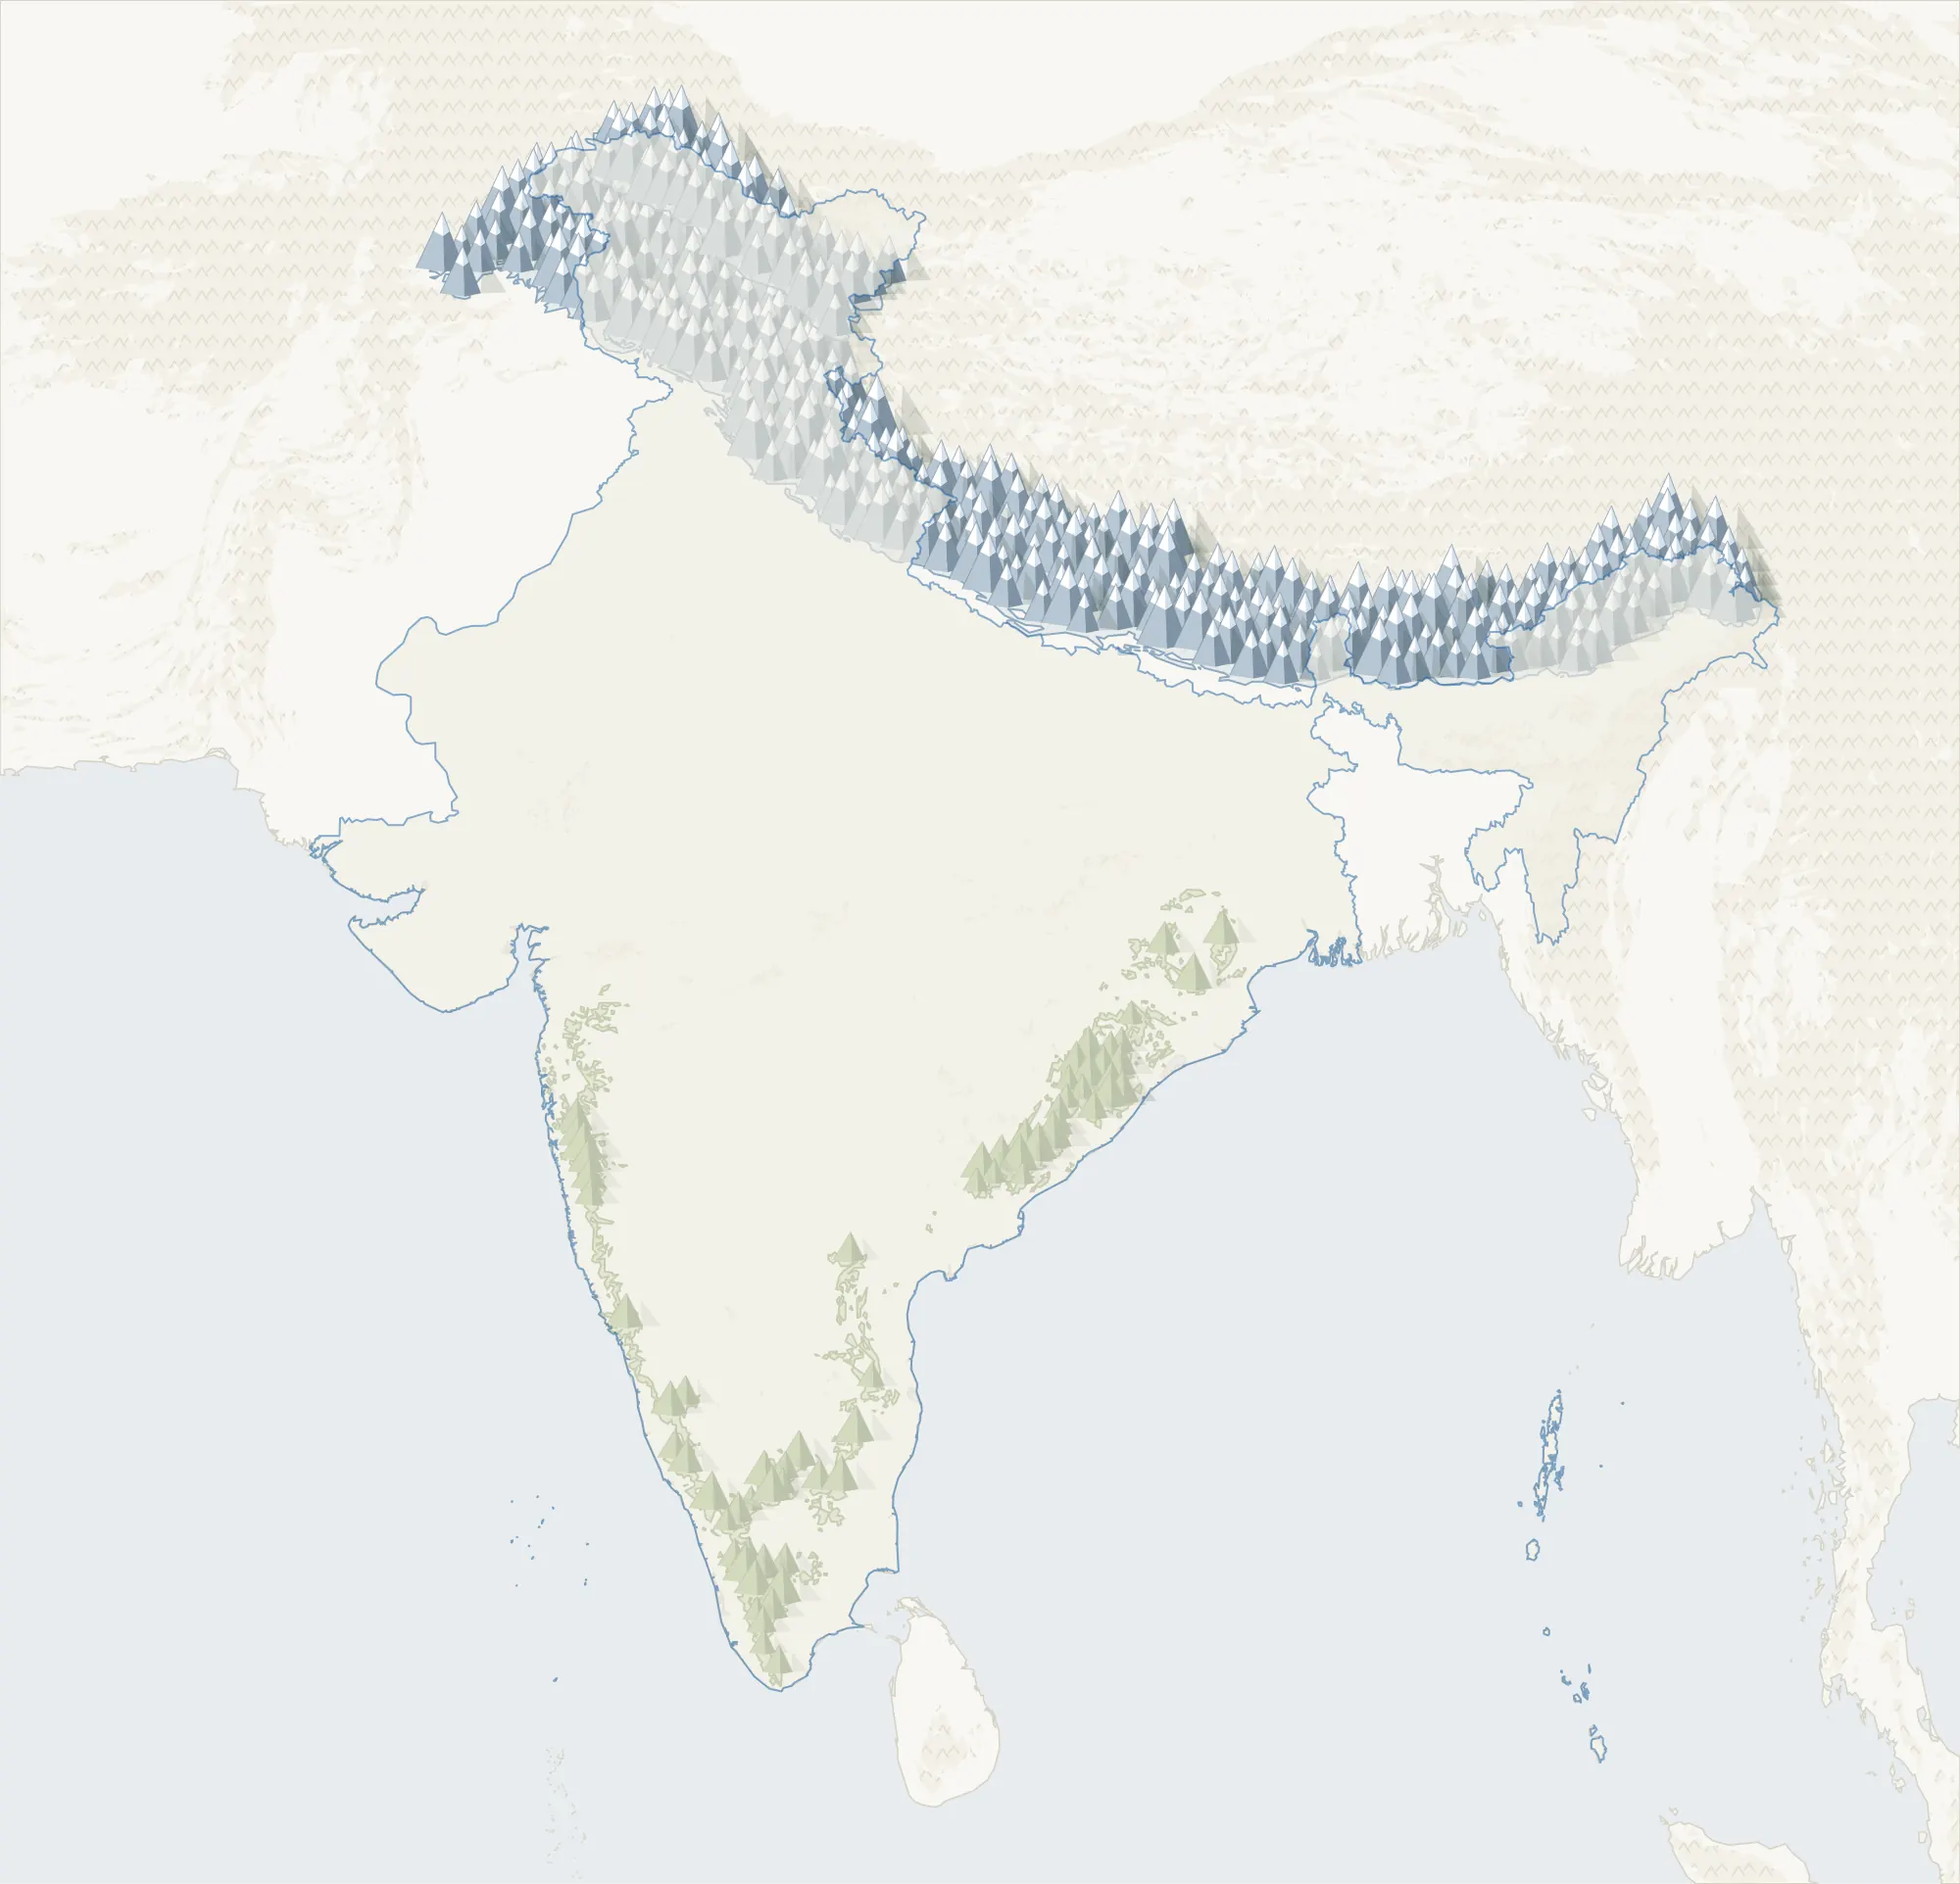
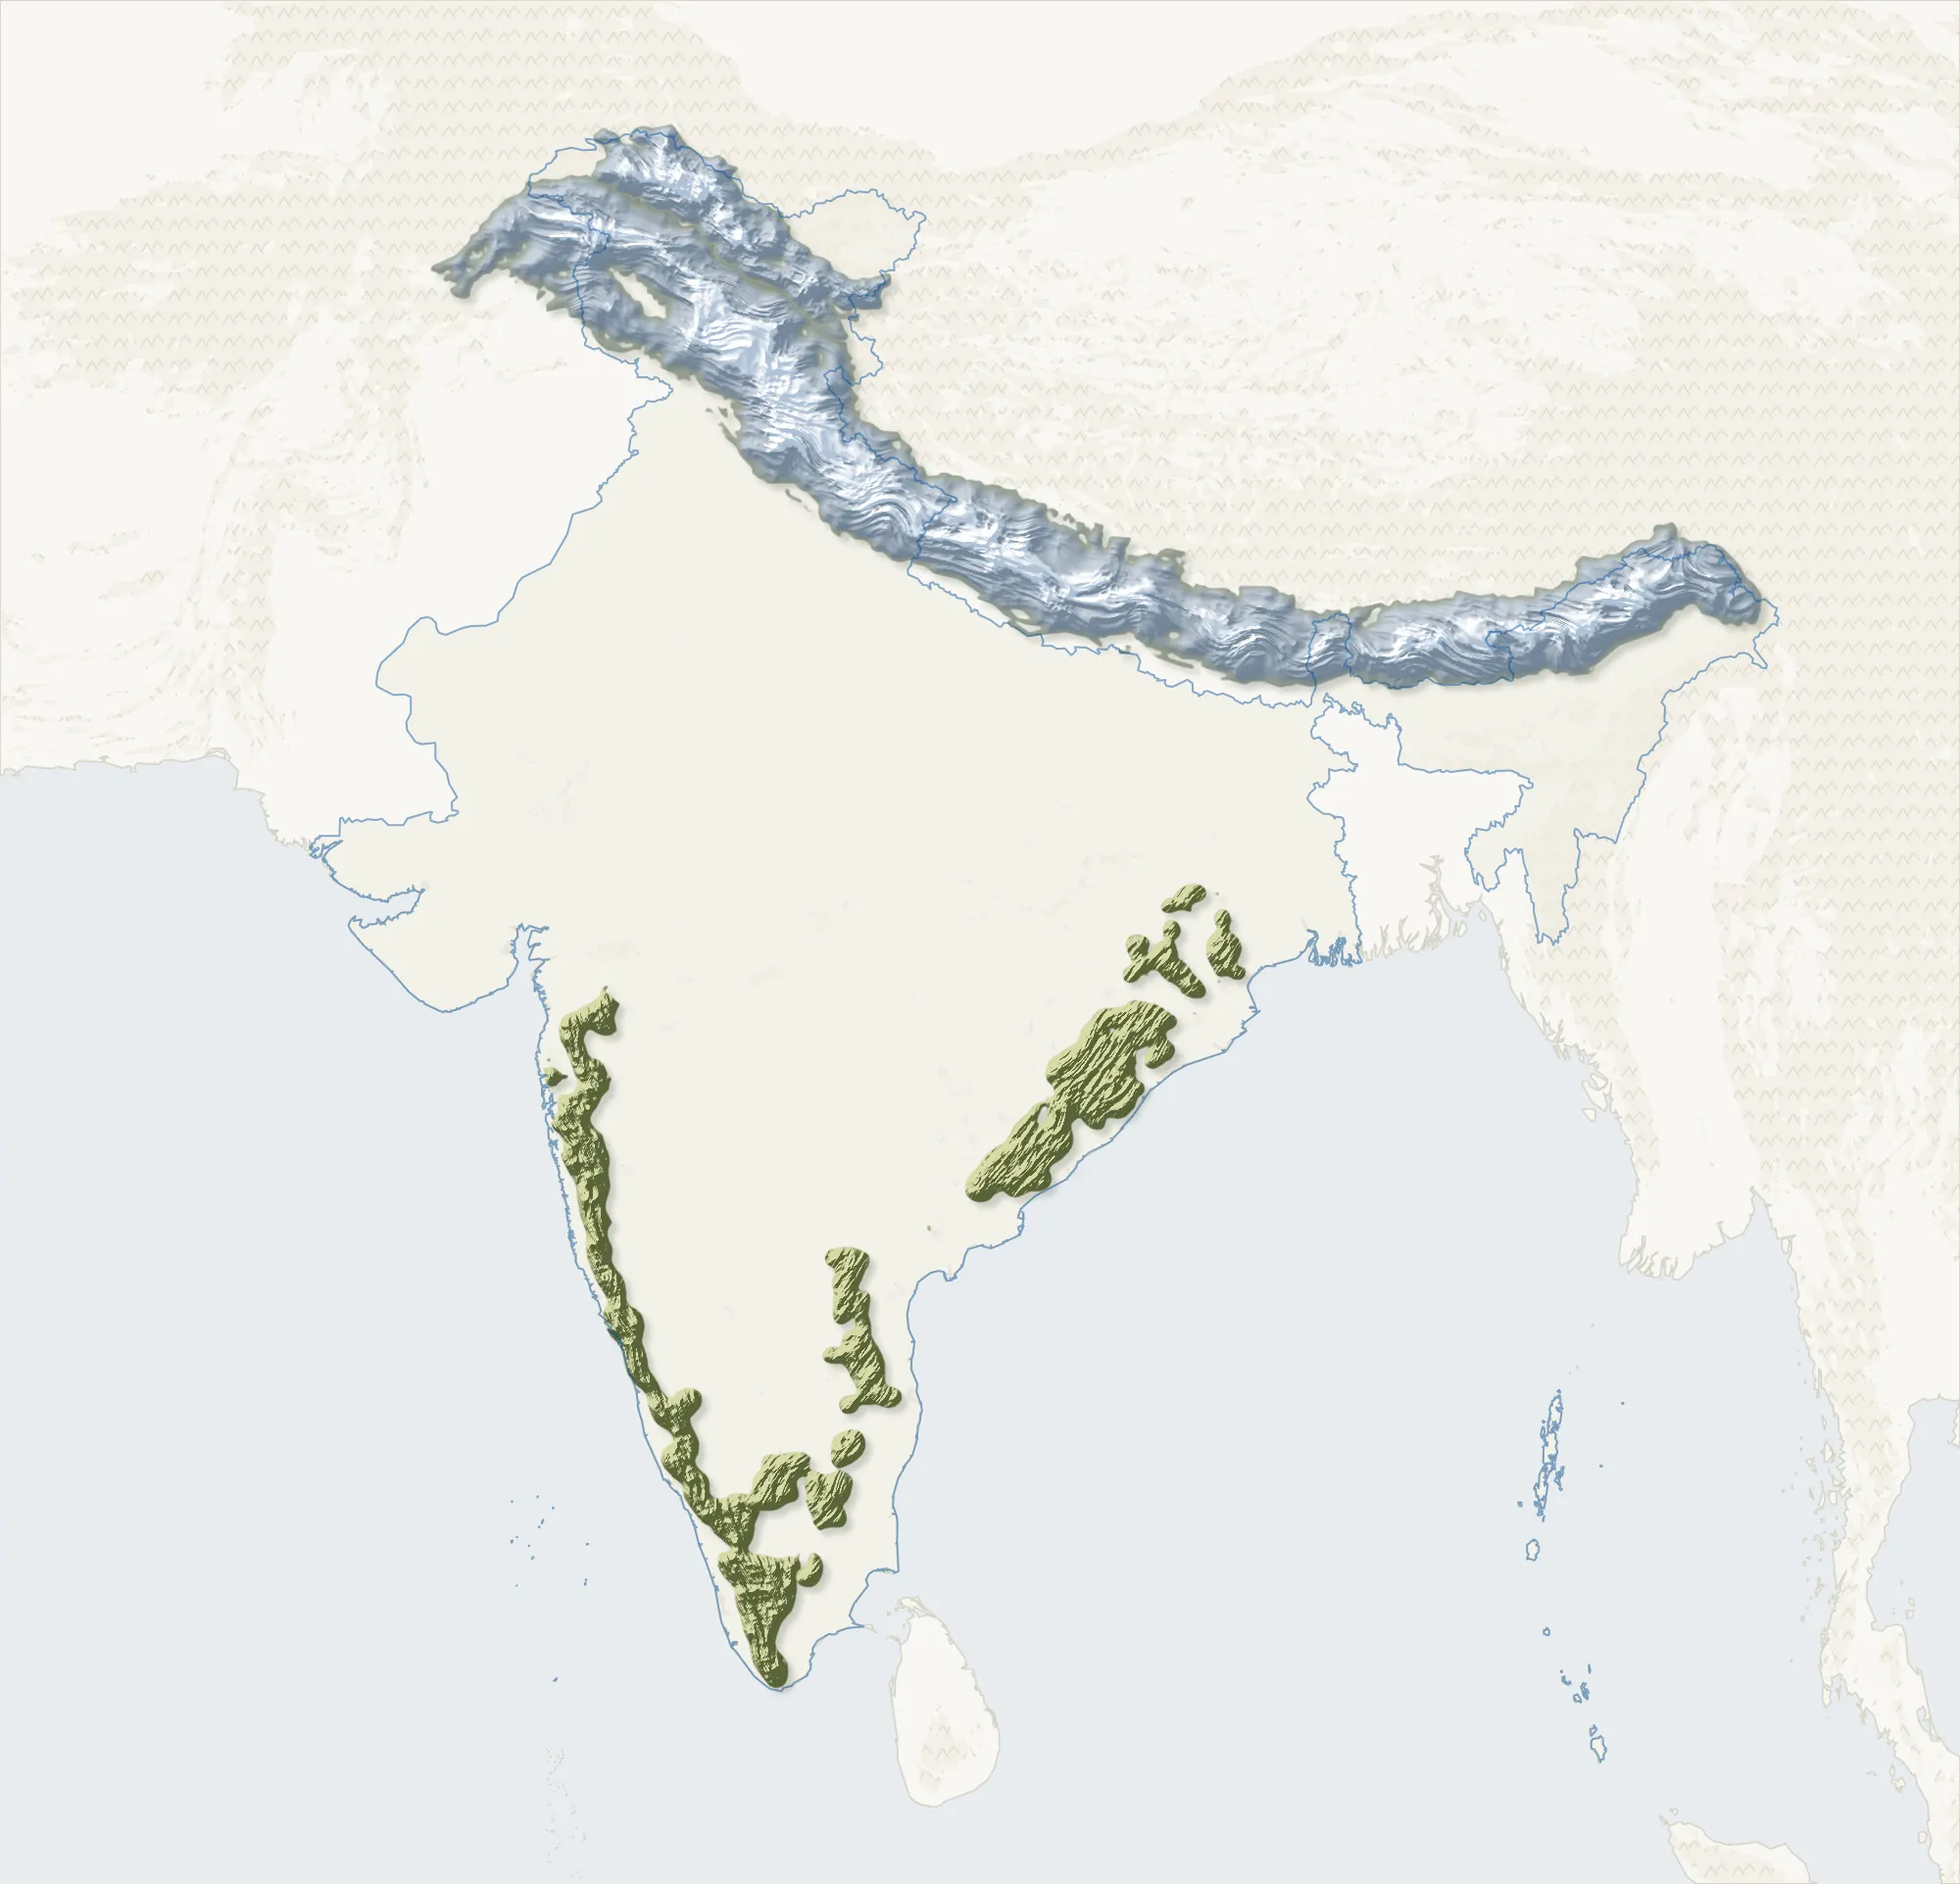
Map: Himalaya (and every range) as one shaded 3-D relief tile; thin ranges dilated so Ghats/Aravalli/Vindhya read as masses; plates re-rendered
Claude-Session: https://claude.ai/code/session_01Md7S2EhktSXHNbENHawYo3

Changed region(s): [[0.217, 0.0312, 0.899, 0.3744], [0.279, 0.5304, 0.465, 0.9048], [0.496, 0.468, 0.651, 0.6552]]

diff --git a/src/lib/map/drawMap.js b/src/lib/map/drawMap.js
@@ -55,7 +55,7 @@ function smoothEdge(c, s) {
   const x = c.getContext("2d"); x.save(); x.setTransform(1, 0, 0, 1, 0, 0); x.globalCompositeOperation = "copy"; x.drawImage(t, 0, 0); x.restore();
 }
 
-export function buildLawn({ growth, unit = 0.1, progress, indiaD, hotspots, unlocked, W, H, widthPx }) {
+export function buildLawn({ growth, unit = 0.1, progress, indiaD, hotspots, unlocked, relief, W, H, widthPx }) {
   const total = growth.length / 2, n = growthCount(progress, total);
   const c = typeof OffscreenCanvas !== "undefined" ? new OffscreenCanvas(widthPx, Math.round((widthPx * H) / W)) : Object.assign(document.createElement("canvas"), { width: widthPx, height: Math.round((widthPx * H) / W) });
   const x = c.getContext("2d"); x.setTransform(widthPx / W, 0, 0, widthPx / W, 0, 0);
@@ -74,7 +74,11 @@ export function buildLawn({ growth, unit = 0.1, progress, indiaD, hotspots, unlo
   for (const id of unlocked || []) {
     const h = hotspots?.[id]; if (!h?.parts) continue;
     if (h.type === "river") for (const [w, a] of [[17, 0.35], [11, 1]]) { x.lineWidth = w; x.globalAlpha = a; for (const f of h.parts) { ringPath(x, f, false); x.stroke(); } }
-    else if (h.type === "mountain") { x.lineWidth = 7; x.globalAlpha = 0.45; for (const f of h.parts) { ringPath(x, f, true); x.stroke(); } x.globalAlpha = 1; for (const f of h.parts) { ringPath(x, f, true); x.fill(); } }
+    else if (h.type === "mountain") {                       // clear the SAME (grown) footprint the relief tile was drawn on
+      const g = relief?.[id]?.grow || 0;
+      x.lineWidth = 7 + 2 * g; x.globalAlpha = 0.45; for (const f of h.parts) { ringPath(x, f, true); x.stroke(); }
+      x.globalAlpha = 1; x.lineWidth = 1 + 2 * g; for (const f of h.parts) { ringPath(x, f, true); if (g) x.stroke(); x.fill(); }
+    }
   }
   x.globalAlpha = 1; x.globalCompositeOperation = "source-over";
   return c;

diff --git a/src/components/map/DashboardMap.jsx b/src/components/map/DashboardMap.jsx
@@ -113,7 +113,7 @@ export default function DashboardMap({ stateOverride = null, cardOverride = unde
     sizeCanvas(canvas, width, (width * frame.H) / frame.W, dpr);
     const lawnKey = `${canvas.width}|${progress.toFixed(3)}|${unlocked.join(",")}`;
     if (lawnRef.current.key !== lawnKey) {
-      lawnRef.current = { key: lawnKey, canvas: buildLawn({ growth: assets.candidates.growth, unit: assets.candidates.unit, progress, indiaD: assets.india?.outline?.d, hotspots: manifest.hotspots, unlocked, W: frame.W, H: frame.H, widthPx: canvas.width }) };
+      lawnRef.current = { key: lawnKey, canvas: buildLawn({ growth: assets.candidates.growth, unit: assets.candidates.unit, progress, indiaD: assets.india?.outline?.d, hotspots: manifest.hotspots, unlocked, relief: manifest.relief, W: frame.W, H: frame.H, widthPx: canvas.width }) };
     }
     sceneRef.current = { lawnReady: true, frame, hotspots: manifest.hotspots, unlocked, sprites: assets.sprites, plants, mala: assets.candidates.mala, unit: assets.candidates.unit, progress };
     paint(performance.now() / 1000, reduced);

diff --git a/src/components/map/MapDetail.jsx b/src/components/map/MapDetail.jsx
@@ -54,7 +54,7 @@ export default function MapDetail({ state, assets, unlocked, plants, onClose }) 
 
   const progress = state.status === "ok" ? Number(state.progressPercent) : 0;
   // the lawn is built once (fixed 2000 px wide) and scaled by the view transform: it is soft-edged, so zoom stays clean
-  const lawn = useMemo(() => (geo ? buildLawn({ growth: assets.candidates.growth, unit: assets.candidates.unit, progress, indiaD: geo.outline.d, hotspots: manifest.hotspots, unlocked, W: frame.W, H: frame.H, widthPx: 2000 }) : null),
+  const lawn = useMemo(() => (geo ? buildLawn({ growth: assets.candidates.growth, unit: assets.candidates.unit, progress, indiaD: geo.outline.d, hotspots: manifest.hotspots, unlocked, relief: manifest.relief, W: frame.W, H: frame.H, widthPx: 2000 }) : null),
     [geo, assets, progress, manifest, unlocked, frame]);
 
   // ── draw ──
